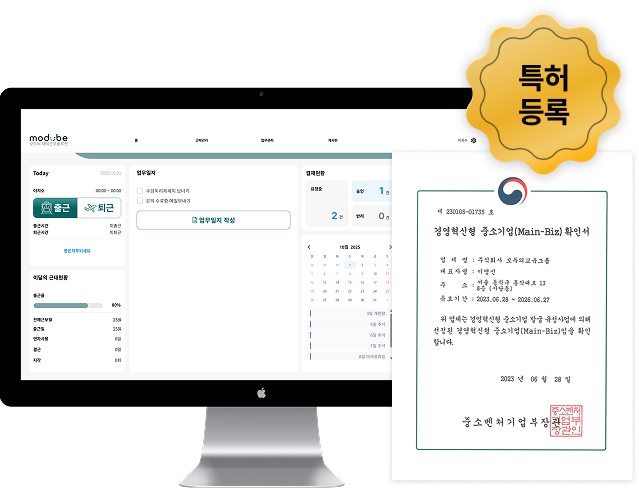
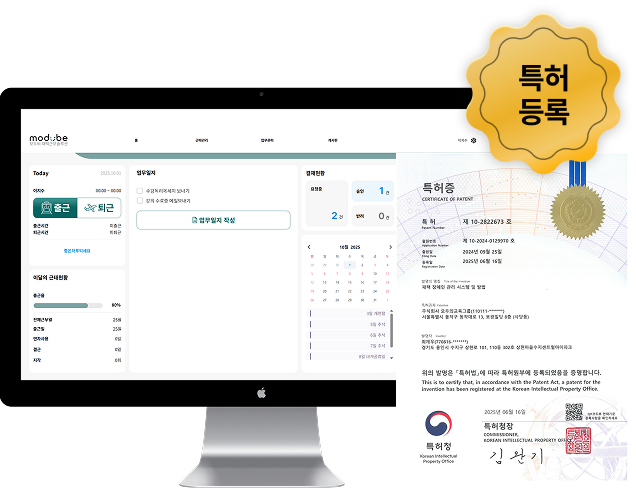
피드백 반영

diff --git a/work/modubee/companyService/index.html b/work/modubee/companyService/index.html
@@ -23,7 +23,7 @@
 
       <section class="section-1">
         <h4 class="section-title">
-          장애인고용컨설팅과 재택근무수행을지원하는<br>
+          장애인고용컨설팅과 재택근무수행을 지원하는<br>
           <p style="color: #005F73;">
             필수인사관리 및 직무지도서비스
           </p>
@@ -57,7 +57,7 @@
             <div class="text-box">
               <span class="text-box-tit">
                 <p style="color: #005F73;">인프라 구축,</p>
-                  모두비, 전문가가 도와드립니다.
+                  모두비 전문가가 도와드립니다.
               </span>
               <span class="details">
                 <p>관련서류검토, 시설구축, 내부 제도 검토</p>
@@ -74,7 +74,7 @@
               </span>
               <span class="details">
                 <p>모두비 재택근무솔루션으로 인사 및 업무 관리</p>
-                <p>온라인교육플래너와 같은 특별한 직무 개발과 직무지도</p>
+                <p>온라인교육플래너와 같은 특별한 직무개발과 직무지도</p>
               </span>
             </div>
           </div>
@@ -101,7 +101,7 @@
             <div class="person-box">
               <div class="box-left">
                 <span class="top">
-                  <p class="job">사회복시자</p>
+                  <p class="job">사회복지사</p>
                   <p class="length">1명</p>
                 </span>
                 <span class="btm">

diff --git a/work/modubee/companySolution/index.html b/work/modubee/companySolution/index.html
@@ -36,12 +36,12 @@
           </li>
           <li>
             <span>
-              중증장애인도 OK! <p>SIMPLE 한 UI</p>
+              중증장애인도 OK! <p>심플한 UI</p>
             </span>
           </li>
           <li>
             <span>
-              재택 장애인 관리시스템 <p>특허 등록</p>
+              재택 장애인 관리시스템 <p>특허 보유</p>
             </span>
           </li>
         </ul>
@@ -53,7 +53,7 @@
             <img src="../common/images/icon-logo.svg" alt="모두비 로고">
             <h4 class="fun-title">근태관리</h4>
             <span class="sub">
-              <b>단 한번의 클릭으로</b> 시작하는, <br>
+              <b>단 한번의 클릭으로</b> 시작하는 <br>
               가장 쉬운 출퇴근관리
             </span>
           </article>
@@ -89,7 +89,7 @@
             <img src="../common/images/icon-logo.svg" alt="모두비 로고">
             <h4 class="fun-title" style="color: #000000;">문서함기능</h4>
             <span class="sub">
-              양방향 요청 • 제출이 가능한 문서함<br>
+              양방향 요청 ・ 제출이 가능한 문서함<br>
               기능을 통해 <b>행정처리 간소화</b> 
             </span>
           </article>

diff --git a/work/modubee/companyIntroduce/index.html b/work/modubee/companyIntroduce/index.html
@@ -21,7 +21,13 @@
 
       <h3 class="title">회사소개</h3>
       <section class="contents">
-        <img src="./images/img-company-intro.png" alt="모두의교육그룹 소개 이미지">
+        <div class="link">
+          <img src="./images/img-company-intro.png" alt="모두의교육그룹 소개 이미지">
+          <a target="_blank" href="https://www.modulearning.kr/" class="first"><p>모두의 러닝</p></a>
+          <a target="_blank" href="https://modube.kr/" class="second"><p>모두세이프티</p></a>
+          <a target="_blank" href="https://modu-safety.kr/" class="third"><p>모두비</p></a>
+          <a target="_blank" href="https://modulearning.kr/landing/ai02/" class="four"><p>콘텐츠제작</p></a>
+        </div>
 
         <div class="inner-section gray">
           <h4 class="section-title">Partners & Clients</h4>

diff --git a/work/modubee/jobIntroduce/index.css b/work/modubee/jobIntroduce/index.css
@@ -94,10 +94,20 @@
           }
 
           .desc {
-            margin-top: 15px;
-            font-size: 16px;
+            margin-top: 28px;
+            font-size: 14px;
             line-height: 24px;
             color: #333;
+            position: relative;
+            padding-left: 16px;
+            display: block;
+            &::before {
+              content: "・";
+              display: block;
+              font-size: 14px;
+              position: absolute;
+              left: 0;
+            }
           }
         }
       }

diff --git a/work/modubee/partnerCollect/index.css b/work/modubee/partnerCollect/index.css
@@ -70,7 +70,7 @@
         }
 
         .mail {
-          font-size: 16px;
+          font-size: 20px;
           font-weight: 700;
         }
 
@@ -80,6 +80,10 @@
         &.partner-mail {
           margin-top: 30px;
         }
+      }
+
+      .flex-box {
+        align-items: flex-end;
       }
     }
   }
@@ -134,6 +138,11 @@
           &.inquire,
           &.partner-mail {
             margin: 0;
+          }
+
+          .mail {
+            position: relative;
+            top: -2px;
           }
         }
       }

diff --git a/work/modubee/companyIntroduce/index.css b/work/modubee/companyIntroduce/index.css
@@ -18,6 +18,34 @@
     display: none;
   }
 
+  .link {
+    position: relative;
+    display: flex;
+    flex-wrap: wrap;
+    align-items: stretch;
+    justify-content: space-between;
+
+    a {
+      flex: 0 0 30%;
+      position: absolute;
+      width: 30%;
+      height: 40%;
+      p {
+        display: none;
+      }
+
+      &.second,
+      &.four {
+        right: 0;
+      }
+
+      &.third,
+      &.four {
+        bottom: 0;
+      }
+    }
+  }
+
   .inner-section {
     margin-top: 80px;
     

diff --git a/work/modubee/jobIntroduce/index.html b/work/modubee/jobIntroduce/index.html
@@ -79,7 +79,7 @@
               <span class="category">
                 <b>급여담당자</b>
               </span>
-              <p class="desc">급여아웃소싱도입 <br>장애인근로자 파견, 급여업무 담당</p>
+              <p class="desc">급여아웃소싱도입 후<br>장애인근로자 파견, 급여업무 담당</p>
             </article>
           </div>
           <div class="card">

diff --git a/work/modubee/partnerCollect/index.html b/work/modubee/partnerCollect/index.html
@@ -43,7 +43,6 @@
               <span class="call"><b style="color: #005F73;">1544-9338</b></span>
             </div>
             <div class="contract-info partner-mail">
-              <span class="subject">모두비 영업 파트너</span>
               <span class="mail">modube@modulearing.kr</span>
             </div>
           </div>

diff --git a/work/modubee/companySolution/index.css b/work/modubee/companySolution/index.css
@@ -208,6 +208,7 @@
           width: calc(100vw * 934 / 1920);
           max-width: 934px;
           margin-bottom: 50px;
+          min-width: 700px;
         }
 
         ul {
